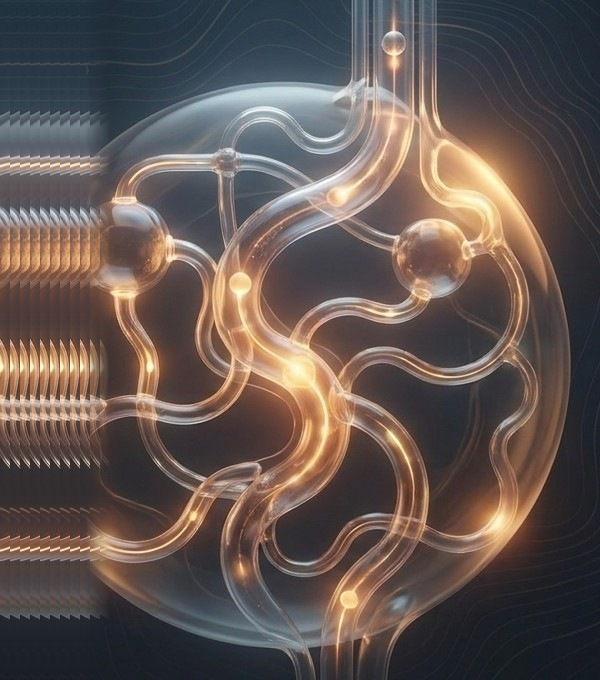
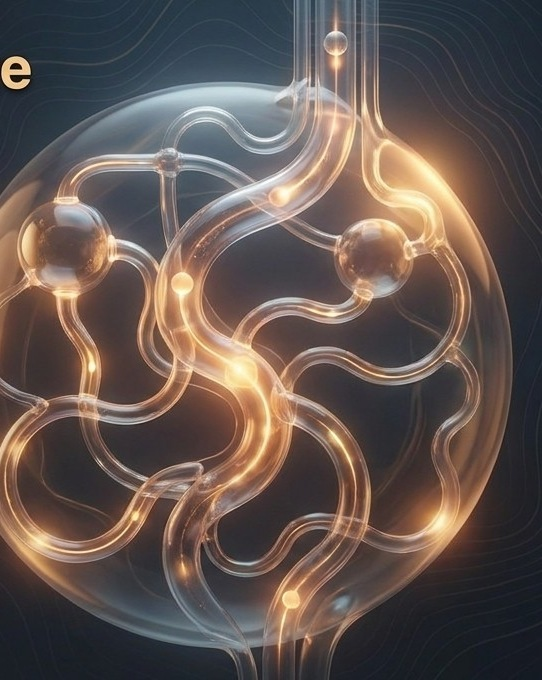
Explorar Temas: esfera intacta. Solo fuera la tira de las letras.

diff --git a/src/index.css b/src/index.css
@@ -143,19 +143,12 @@
   );
 }
 .will-veil-topics {
-  background:
-    linear-gradient(
-      90deg,
-      rgba(7, 8, 10, 0.88) 0%,
-      rgba(7, 8, 10, 0.45) 7%,
-      rgba(7, 8, 10, 0) 14%
-    ),
-    linear-gradient(
-      90deg,
-      rgba(7, 8, 10, 0.38) 0%,
-      rgba(7, 8, 10, 0.22) 46%,
-      rgba(7, 8, 10, 0.12) 100%
-    );
+  background: linear-gradient(
+    90deg,
+    rgba(7, 8, 10, 0.38) 0%,
+    rgba(7, 8, 10, 0.22) 46%,
+    rgba(7, 8, 10, 0.12) 100%
+  );
 }
 .will-veil-resources,
 .will-veil-how-it-works {

diff --git a/src/components/visual/SpaceShell.tsx b/src/components/visual/SpaceShell.tsx
@@ -18,7 +18,7 @@ const SCENE: Record<
     marks: [],
   },
   topics: {
-    photo: '/visual-system/interior-page05.jpg?v=noletras1',
+    photo: '/visual-system/interior-page05.jpg?v=noletras2',
     position: '78% 48%',
     marks: [],
   },
